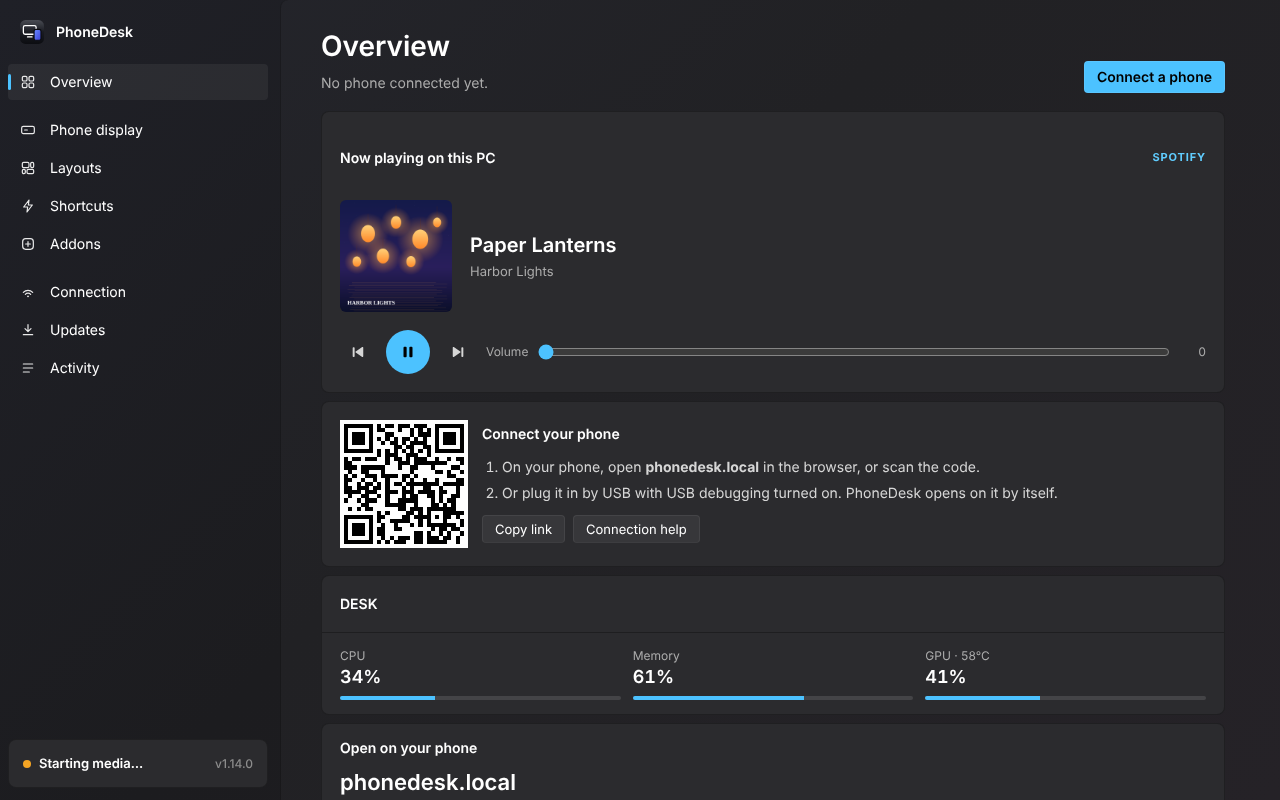
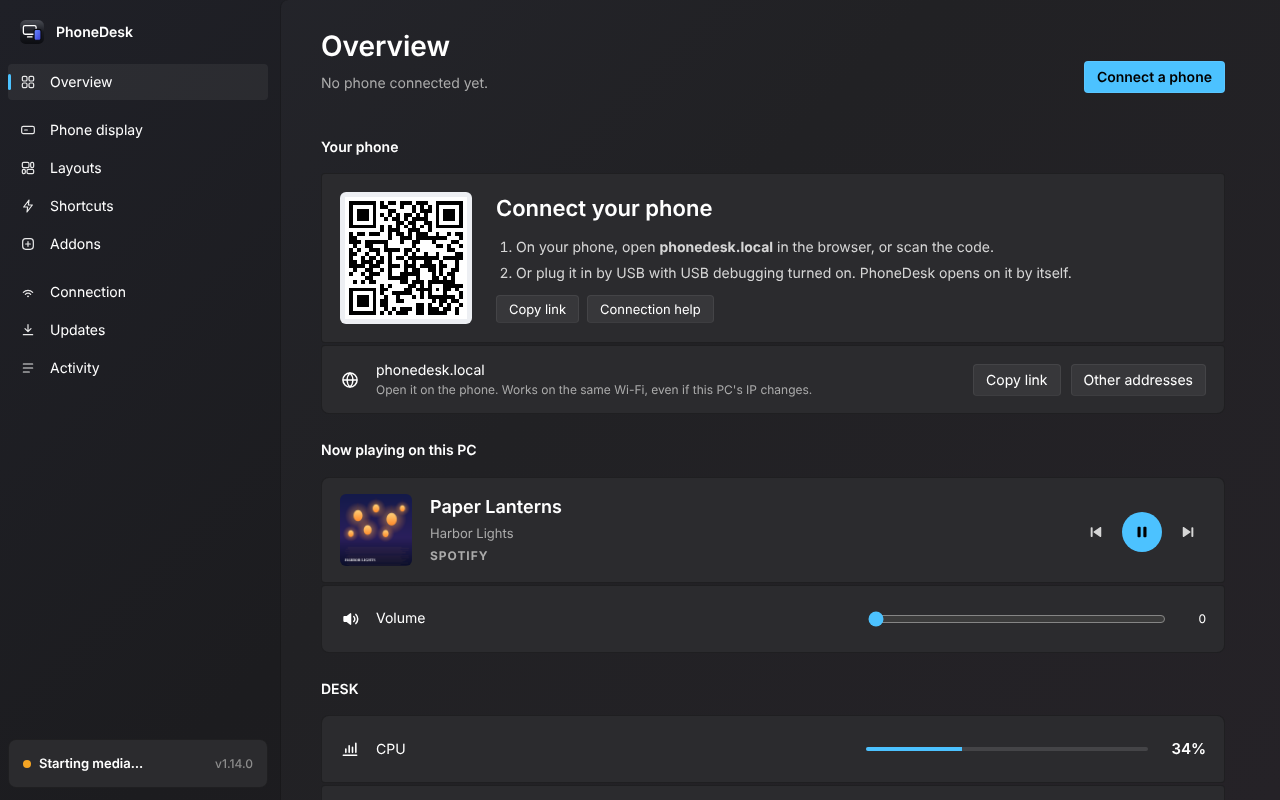
Windows widget style for the phone; changelog for the rows redesign
Claude-Session: https://claude.ai/code/session_01GHAMAvh7YqaPz7AunRb2me

diff --git a/public/phone/app.css b/public/phone/app.css
@@ -1257,3 +1257,32 @@ body.look-ios .np-top > *, body.look-ios .app { background: rgba(255, 255, 255, 
 .io-ring > span .bt-ic { width: 1.1em; height: 1.1em; color: rgba(255, 255, 255, .7); }
 .io-ring .io-icon { display: grid; place-items: center; }
 .io-ring .io-icon .bt-ic { width: 1.5em; height: 1.5em; color: rgba(255, 255, 255, .85); }
+
+/* ---------------------------------------------------------------- Windows widget style (look: 'windows')
+   Like the Windows 11 widgets board: a deep blue desktop, widgets on Mica-dark cards with small corners and a thin
+   light edge, Segoe UI, a calm blue accent, and the page dots as a small taskbar-style pill. */
+body.look-win {
+  --radius: 8px; --card: rgba(38, 38, 44, .86); --line: rgba(255, 255, 255, .09);
+  --fg: #fff; --fg2: rgba(255, 255, 255, .74); --fg3: rgba(255, 255, 255, .46);
+  font-family: "Segoe UI Variable Text", "Segoe UI", "PD Inter", system-ui, sans-serif;
+}
+body.look-win #bg { opacity: 0; }
+body.look-win #wall {
+  display: block; position: absolute; inset: 0; z-index: 0; pointer-events: none;
+  background:
+    radial-gradient(42% 60% at 64% 46%, rgba(120, 170, 255, .55), transparent 70%),
+    radial-gradient(55% 80% at 70% 50%, rgba(40, 90, 230, .55), transparent 72%),
+    radial-gradient(60% 70% at 15% 100%, rgba(30, 50, 140, .45), transparent 70%),
+    linear-gradient(160deg, #0a1430, #08102a 55%, #050a1c) !important;
+}
+body.look-win .screen.page { padding: 40px 16px 34px; }
+body.look-win .wgrid { gap: 10px; }
+body.look-win .wg { background: var(--card); border: 1px solid var(--line); border-top-color: rgba(255, 255, 255, .14); border-radius: 8px; padding: 12px 14px; box-shadow: 0 8px 18px rgba(0, 0, 0, .28); }
+body.look-win .wg.look-clear { background: none; border-color: transparent; box-shadow: none; }
+body.look-win .wg-clock { background: none; border-color: transparent; box-shadow: none; }
+body.look-win .wg-clock .w-time { font-weight: 600; letter-spacing: -.01em; }
+body.look-win .card, body.look-win .st-hist, body.look-win .agenda, body.look-win .fc-d, body.look-win .key { border-radius: 8px; }
+body.look-win .card, body.look-win .key { background: var(--card); border: 1px solid var(--line); }
+body.look-win #dots { bottom: 6px; left: 50%; right: auto; transform: translateX(-50%); padding: 2px 8px; border-radius: 8px; background: rgba(32, 32, 38, .82); border: 1px solid var(--line); }
+body.look-win #dots button.on::after { background: #4cc2ff; }
+body.look-win .play, body.look-win .w-play { border-radius: 6px; }

diff --git a/server/config.js b/server/config.js
@@ -34,7 +34,7 @@ const DEFAULTS = {
   notes: [],                   // [{ id, text, done }]: the Notes widget's list
   photosDir: '',               // a folder of pictures for the Photo frame widget
   doubleTapPlay: false,        // double-tap anywhere on the phone to play or pause
-  look: 'classic',             // how pages and widgets look on the phone: 'classic' or 'ios' (glass tiles on the album wallpaper)
+  look: 'classic',             // how pages and widgets look on the phone: 'classic', 'ios' (glass tiles on the album wallpaper) or 'windows' (Windows 11 widgets)
   nowStyle: 'immersive',
   lyricsMode: 'scroll',
   lyricsFont: 'serif',
@@ -109,7 +109,7 @@ function sanitize(c) {
     .map((n) => ({ id: /^[a-z0-9]{4,16}$/.test(n.id || '') ? n.id : crypto.randomBytes(4).toString('hex'), text: String(n.text).trim().slice(0, 200), done: n.done === true }));
   out.photosDir = String(c.photosDir || '').trim().slice(0, 400);
   out.doubleTapPlay = c.doubleTapPlay === true;
-  out.look = c.look === 'ios' ? 'ios' : 'classic';
+  out.look = ['ios', 'windows'].includes(c.look) ? c.look : 'classic';
   out.schedule = (Array.isArray(c.schedule) ? c.schedule : []).slice(0, 6).filter((r) => r && /^([01]\d|2[0-3]):[0-5]\d$/.test(r.from) && /^([01]\d|2[0-3]):[0-5]\d$/.test(r.to) && /^[a-z]+(:[\w.-]{1,60})?$/.test(r.screen || '') && r.from !== r.to)
     .map((r) => ({ from: r.from, to: r.to, screen: r.screen }));
   out.nowStyle = c.nowStyle === 'classic' ? 'classic' : 'immersive';

diff --git a/test/ui.test.js b/test/ui.test.js
@@ -316,6 +316,11 @@ async function t(name, fn) {
       assert.ok(off < 1.5, 'the battery reading is ' + off.toFixed(1) + 'px off the ring centre');
       const lit = await pg.evaluate(() => [...document.querySelectorAll('.wg-lyrics .lw-c .lw-w')].map((s) => s.classList.contains('lit')));
       assert.ok(lit.length > 3 && lit.every(Boolean), 'every word of the sung line is lit: ' + JSON.stringify(lit));
+      // the Windows style: its own class, the iOS one off, and widgets on small-cornered cards
+      await api('config', { look: 'windows' }); await sleep(800);
+      assert.ok(await pg.evaluate(() => document.body.classList.contains('look-win') && !document.body.classList.contains('look-ios')), 'the Windows style is on');
+      assert.strictEqual(await pg.evaluate(() => getComputedStyle(document.querySelector('.screen.on .wg-devices')).borderTopLeftRadius), '8px', 'Windows widgets have 8px corners');
+      assert.deepStrictEqual(errors, []);
       await ctx.close();
       await api('config', { look: 'classic', pages: before.pages, screens: before.screens });
     });

diff --git a/public/dashboard/index.html b/public/dashboard/index.html
@@ -261,6 +261,7 @@
           <div class="srow-body"><div class="themes" id="ds-looks">
             <button class="theme" data-v="classic"><i style="background:#1c1f25"></i><b>Classic</b></button>
             <button class="theme" data-v="ios"><i style="background:linear-gradient(140deg,#5b3a9e,#d97a3a)"></i><b>iOS <small>· glass tiles on the album art</small></b></button>
+            <button class="theme" data-v="windows"><i style="background:radial-gradient(70% 90% at 70% 40%,#3f7bff,transparent 70%),#0b1530"></i><b>Windows <small>· Windows 11 widgets</small></b></button>
           </div></div>
         </div>
         <div class="srow"><svg class="srow-ic" aria-hidden="true"><use href="#i-palette"/></svg><div class="srow-t"><b>Accent color</b><span>Picked from the album art, or one color always</span></div><div class="srow-c"><div class="swatches" id="ds-accent"></div></div></div>

diff --git a/public/phone/app.js b/public/phone/app.js
@@ -1980,6 +1980,7 @@
     if (c.nowStyle === 'classic') closeLyrics(true);
     document.body.className = document.body.className.replace(/theme-\w+/, '') + ' theme-' + (c.theme || 'dark');
     toggle(document.body, 'look-ios', c.look === 'ios');
+    toggle(document.body, 'look-win', c.look === 'windows');
     var meta = document.querySelector('meta[name=theme-color]');
     if (meta) meta.setAttribute('content', c.theme === 'light' ? '#f4f5f7' : c.theme === 'black' ? '#000000' : '#0e0f12');
     currentTint = '';

diff --git a/CHANGELOG.md b/CHANGELOG.md
@@ -7,19 +7,29 @@ the same notes are shown. Releases are published from this file by `.github/work
 Screenshots of interface changes are in [`docs/changelog/`](docs/changelog/). They were taken from each version as it
 was released, with a made-up song (*Paper Lanterns* by *Harbor Lights*) and original placeholder lyrics.
 
-## [1.14.0] — 2026-11-13
+## [1.14.0] — 2026-11-14
 
-A new look for the PhoneDesk window on your PC, made to feel at home in Windows 11.
+The PhoneDesk window now looks and works like Windows 11 Settings, and the phone has a Windows widget style.
+
+### Added
+
+- **Windows widget style for the phone.** In Phone display, under Widget style, pick Windows: pages sit on a deep blue
+  desktop and widgets are dark Mica-style cards with small corners and a thin light edge, in Segoe UI, with the page
+  dots in a small taskbar-style bar. Classic stays the default; iOS is still there too.
+
+![A page in the Windows widget style](docs/changelog/1.14.0/phone-windows-style.png)
 
 ### Changed
 
 - **The PC window looks like Windows 11 Settings.** A quiet dark window, a plain sidebar where the selected page is
-  marked by a small blue bar, large page titles, and settings in flat rounded cards with Windows-style buttons, text
-  boxes and switches. It uses Segoe UI, like Windows itself.
-- **One column of settings rows on every page**, like Windows Settings: each setting is a full-width row with its
-  icon, name and description on the left and its switch or choice on the right, grouped under small headings. Phone
-  display is regrouped into Music, Look, Clock and calendar, Night and screen care, Notifications, Screens and Widgets,
-  with the live preview at the top.
+  marked by a small blue bar, large page titles, Windows-style buttons, text boxes and switches, in Segoe UI.
+- **Every page is one column of settings rows.** Each setting is a full-width row with its icon, name and description
+  on the left and its switch or choice on the right, grouped under small headings:
+  - Overview: your phone, Now playing with volume, PC stats, recent activity.
+  - Phone display: Music, Look, Clock and calendar, Night and screen care, Notifications, Screens, Widgets, with the
+    live preview at the top.
+  - Layouts: the pages, then the page's settings, the editor, adding widgets and the selected widget.
+  - Shortcuts, Addons, Connection (phones, connecting, USB, Spotify, Spicy Lyrics, Advanced), Updates and Activity.
 
 ![The Overview page of the PhoneDesk window](docs/changelog/1.14.0/dashboard-overview.png)
 
